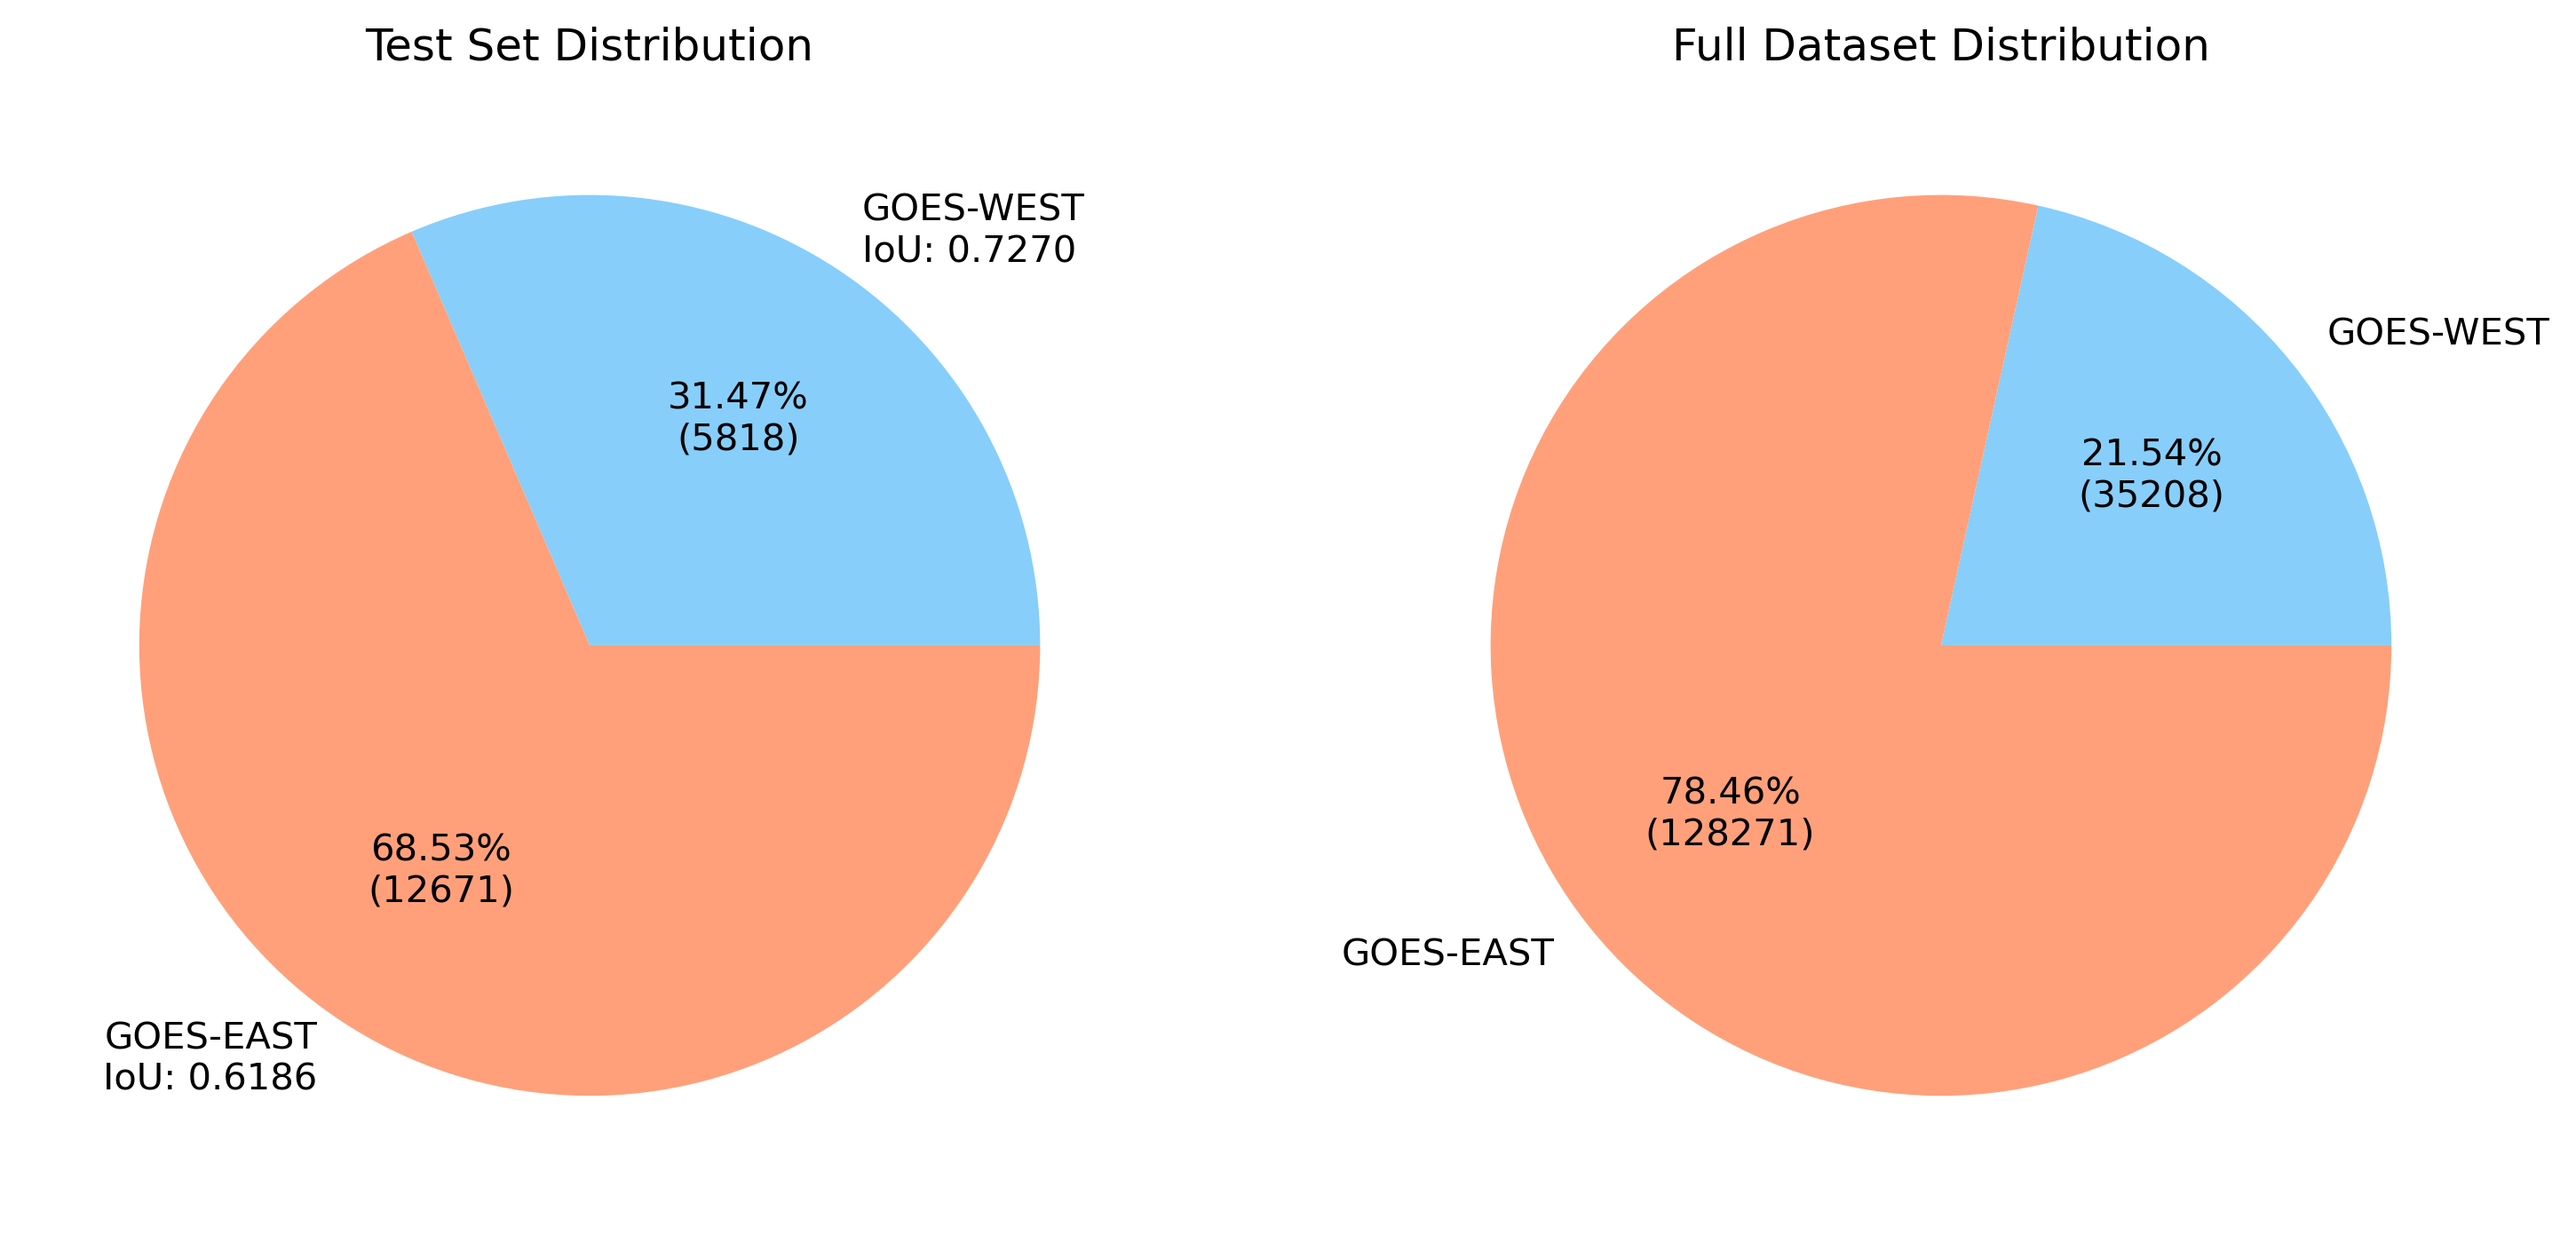
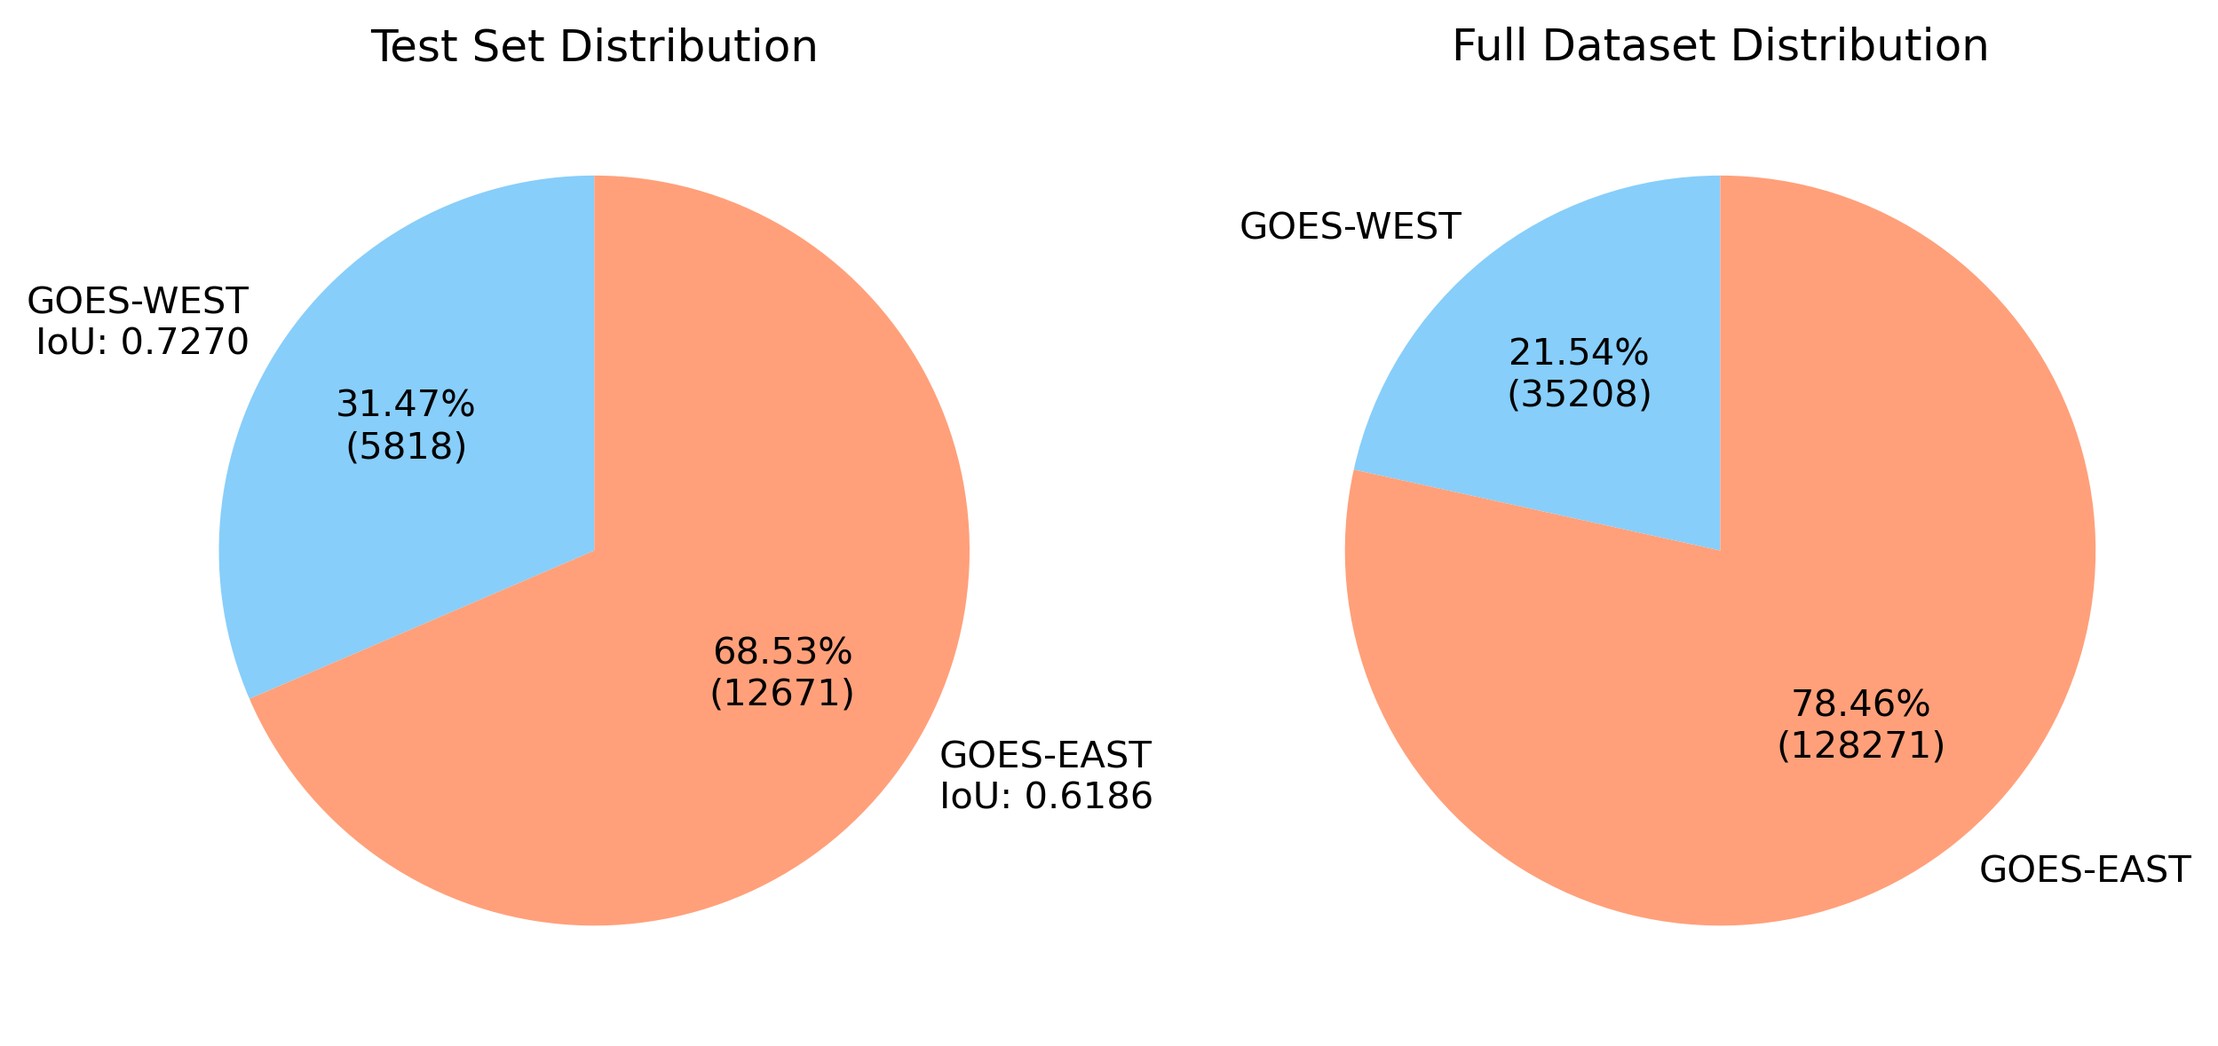
pies

diff --git a/paper_figures/stats/pie_charts/zenith.py b/paper_figures/stats/pie_charts/zenith.py
@@ -1,9 +1,8 @@
 import matplotlib.pyplot as plt
 
 
-mie_counts = [85171, 114818]
-pldr_counts = [96026, 67453]
-
+mie_counts = [99382, 100607]
+pldr_counts = [110595, 52884]
 
 
 def my_fmt_1(x):
@@ -11,17 +10,17 @@ def my_fmt_1(x):
 def my_fmt_2(x):
     return '{:.2f}%\n({:.0f})'.format(x, (pldr_counts[0]+pldr_counts[1])*x/100)
 
-labels = ['GOES-WEST\nIoU: 0.7270', 'GOES-EAST\nIoU: 0.6186']
+labels_Mie = ['<70° SZA\nIoU: 0.4793', '≥70° SZA\nIoU: 0.4471']
 colors = ['gold', 'goldenrod']
-labels_full = ['<66° SZA', '≥66° SZA']
+labels_pldr = ['<70° SZA\nIoU: 0.6661', '≥70° SZA\nIoU: 0.6639']
 
 # Figure with 2 pies
-fig, axes = plt.subplots(1, 2, figsize=(12, 6), dpi=300)
+fig, axes = plt.subplots(1, 2, figsize=(10, 5), dpi=300)
 
-axes[0].pie(mie_counts, labels=labels, colors=colors, autopct=my_fmt_1)
+axes[0].pie(mie_counts, labels=labels_Mie, colors=colors, autopct=my_fmt_1, startangle=90)
 axes[0].set_title('Mie-Derived Dataset')
 
-axes[1].pie(pldr_counts, labels=labels_full, colors=colors, autopct=my_fmt_2)
+axes[1].pie(pldr_counts, labels=labels_pldr, colors=colors, autopct=my_fmt_2, startangle=90)
 axes[1].set_title('SmokeViz Dataset')
 
 plt.savefig('../stat_figures/pie_midday.png', bbox_inches='tight', dpi=300)

diff --git a/paper_figures/stats/pie_charts/satellite.py b/paper_figures/stats/pie_charts/satellite.py
@@ -13,12 +13,12 @@ colors = ['lightskyblue', 'lightsalmon']
 labels_full = ['GOES-WEST', 'GOES-EAST']
 
 # Figure with 2 pies
-fig, axes = plt.subplots(1, 2, figsize=(12, 6), dpi=300)
+fig, axes = plt.subplots(1, 2, figsize=(10, 5), dpi=300)
 
-axes[0].pie(test_counts, labels=labels, colors=colors, autopct=my_fmt_1)
+axes[0].pie(test_counts, labels=labels, colors=colors, autopct=my_fmt_1, startangle=90)
 axes[0].set_title('Test Set Distribution')
 
-axes[1].pie(full_counts, labels=labels_full, colors=colors, autopct=my_fmt_2)
+axes[1].pie(full_counts, labels=labels_full, colors=colors, autopct=my_fmt_2, startangle=90)
 axes[1].set_title('Full Dataset Distribution')
 plt.savefig('../stat_figures/pie_satellite_performance.png', bbox_inches='tight', dpi=300)
 #plt.tight_layout()
